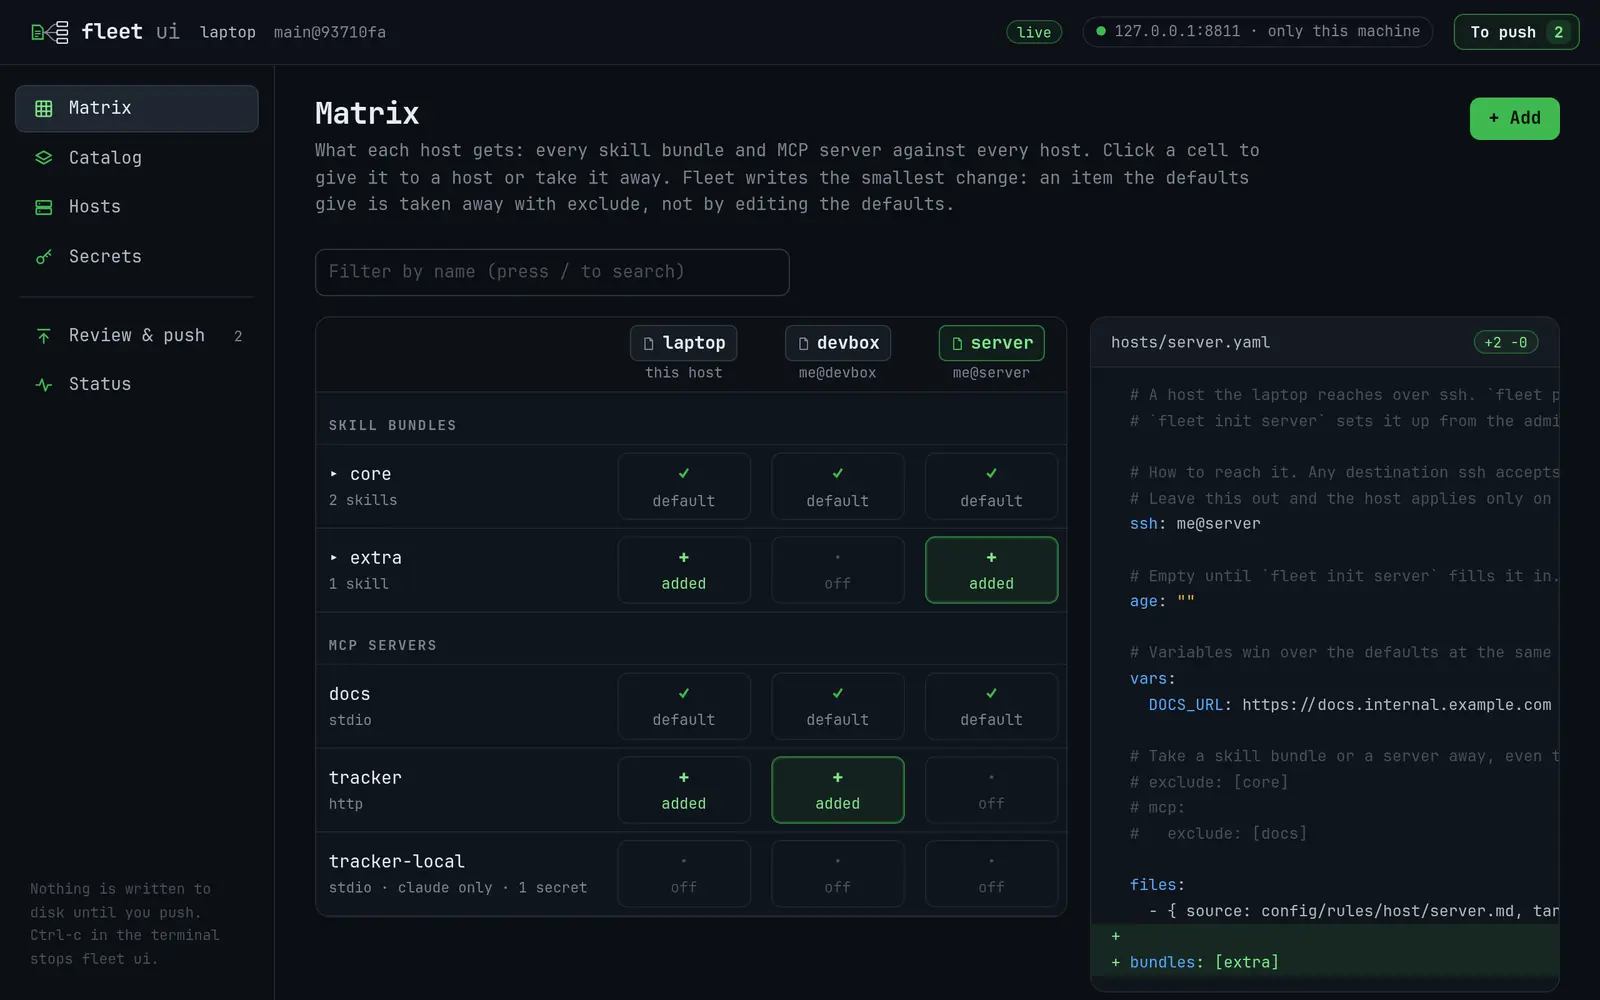
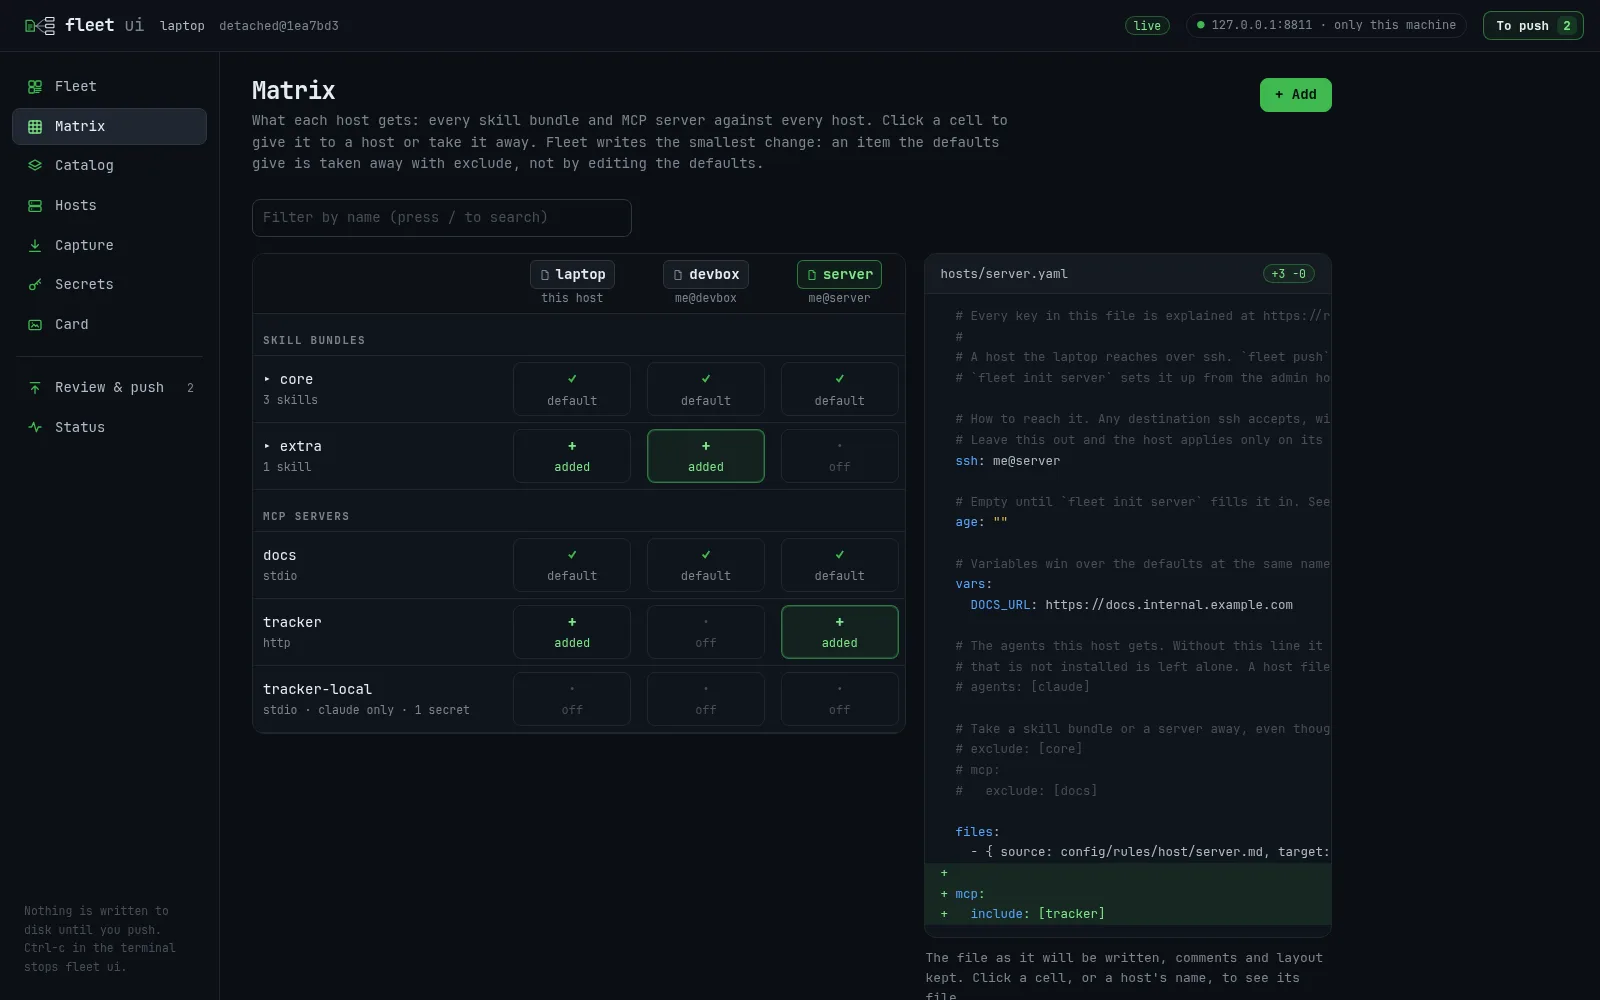
Show Capture and fleet card on the landing page, and retake the fleet ui screenshots from the demo

diff --git a/site/index.html b/site/index.html
@@ -176,25 +176,25 @@
       <div class="section-head">
         <p class="kicker">fleet ui</p>
         <h2>Or click it, in your browser.</h2>
-        <p><code>fleet ui</code> opens a page for your whole fleet. Every click is an edit to the same YAML files, with your comments kept, and you see the diff before anything is written. Nothing changes on a machine until you push.</p>
+        <p><code>fleet ui</code> opens a page for your whole fleet. Every click is an edit to the same YAML files, with your comments kept, and you see the diff before anything is written. Nothing changes on a machine until you push. <a href="docs/ui/">The page</a> covers each screen.</p>
       </div>
 
       <div class="window">
         <div class="window-bar">
           <span class="lights"><i></i><i></i><i></i></span>
           <div class="tabs ui-tabs" role="tablist">
-            <button role="tab" data-shot="matrix" aria-selected="true">Matrix</button>
-            <button role="tab" data-shot="edit" aria-selected="false">Edit</button>
+            <button role="tab" data-shot="fleet" aria-selected="true">Fleet</button>
+            <button role="tab" data-shot="matrix" aria-selected="false">Matrix</button>
           </div>
           <span class="window-title">127.0.0.1 · fleet ui</span>
         </div>
-        <img class="ui-shot" data-shot="matrix" src="ui-matrix.webp" width="1600" height="1000" loading="lazy" alt="The Matrix in fleet ui: skill bundles and MCP servers as rows, the hosts laptop, devbox and server as columns. Two cells are changed and waiting on To push, and the pane on the right shows the YAML diff of hosts/server.yaml.">
-        <img class="ui-shot" data-shot="edit" src="ui-edit.webp" width="1600" height="1000" loading="lazy" hidden alt="The Edit dialog for the MCP server docs. The command's version is changed from 1.0.0 to 1.4.0, and the pane on the right shows that one line changed in catalog/mcp.yaml.">
+        <img class="ui-shot" data-shot="fleet" src="ui-fleet.webp" width="1600" height="1000" loading="lazy" alt="The Fleet screen of fleet ui: a card for each host. Laptop and devbox are ok, server has 1 conflict with a Show the fix button. Below, the startup context of each host and agent as bars on one scale.">
+        <img class="ui-shot" data-shot="matrix" src="ui-matrix.webp" width="1600" height="1000" loading="lazy" hidden alt="The Matrix in fleet ui: skill bundles and MCP servers as rows, the hosts laptop, devbox and server as columns. Two cells are changed and waiting on To push, and the pane on the right shows the YAML diff of hosts/server.yaml.">
       </div>
-      <p class="caption" id="ui-caption">Click a cell to give a host a bundle or a server, or take it away. The pane shows the change to its host file.</p>
+      <p class="caption" id="ui-caption">Every host with its status, its first conflict and its startup context. The page asks each host when it opens and shows what it last saw until they answer.</p>
 
       <ul class="feat-strip ui-strip">
-        <li><span class="feat-ic">▦</span><b>See every host</b>Every bundle and server against every host, with a search that finds a skill inside its bundle.</li>
+        <li><span class="feat-ic">▦</span><b>See every host</b>Each host's status and startup context, and every bundle and server against every host, with a search that finds a skill inside its bundle.</li>
         <li><span class="feat-ic">✎</span><b>Add, edit, remove</b>MCP servers, skill sources, bundles and hosts. Only the lines you change are written.</li>
         <li><span class="feat-ic">↑</span><b>Review &amp; push</b>Checks every host still loads, commits, and runs the real <code>fleet push</code> with live progress.</li>
         <li><span class="feat-ic">⚿</span><b>Only you</b>Listens on <code>127.0.0.1</code>, needs the token in the URL it prints, stops when no page is open.</li>
@@ -206,7 +206,7 @@
       <div class="section-head">
         <p class="kicker">What it keeps in line</p>
         <h2>Everything your agents need. Nothing they shouldn't.</h2>
-        <p>How it works shows what fleet manages. These are the parts that keep it safe to run on every machine.</p>
+        <p>How it works shows what fleet manages. These parts keep it safe to run on every machine and get a machine's setup into your config.</p>
       </div>
       <div class="grid">
         <article class="feat wide accent">
@@ -233,6 +233,18 @@
             <p>Before your first prompt, each agent has already loaded your instructions, the descriptions of your skills and the tool definitions of your MCP servers. <code>fleet context</code> draws that as bars, in estimated tokens, with every host on one scale, so you see which machine and which server weighs the most. It only reads files and starts no server.</p>
           </div>
           <pre class="block term" id="context-bars" tabindex="0" role="group" aria-label="Startup context of each host, as bars"></pre>
+        </article>
+        <article class="feat wide">
+          <div>
+            <div class="feat-ic">⇣</div>
+            <h3>Capture</h3>
+            <p>Set something up on one machine first, with <code>claude mcp add</code> or a skill folder. Then <code>fleet capture</code> turns the servers and skills that machine has and your config does not into config. It asks about each one, writes the catalog and the host files, and commits. A token in a server's env or headers moves into sops on the way, and no value is ever printed. It reads only the machine it runs on. <a href="docs/capture/">Capture</a> has the details.</p>
+          </div>
+          <pre class="mini"><span class="g">$</span> fleet capture
+<span class="w">[h]ost / [a]ll hosts / [i]gnore / [s]kip / [q]uit:</span> h
+<span class="w">ISSUES_API_KEY becomes the secret ISSUES_API_KEY.</span>
+<span class="w">Press enter, or type another name:</span>
+<span class="w">Push now? [y/N]</span></pre>
         </article>
         <ul class="feat-strip">
           <li><span class="feat-ic">⚿</span><b>Encrypted secrets</b>sops and age. Each host decrypts only its own.</li>
@@ -303,6 +315,30 @@
       </div>
     </section>
 
+    <!-- fleet card: images rendered from fleet demo's made-up hosts (never a real fleet). -->
+    <section class="share" id="card">
+      <div class="section-head">
+        <p class="kicker">fleet card</p>
+        <h2>Show your fleet.</h2>
+        <p><code>fleet card</code> writes <code>fleet-card.svg</code>, an image of your fleet to share in a post, a README or a GitHub discussion: the counts of machines, agents, skills and MCP servers, each machine with its agents and OS, and a year of changes. Hosts are called <code>host 1</code>, <code>host 2</code> unless you add <code>--names</code>. No server, skill, skill source or secret name is ever on it.</p>
+      </div>
+      <div class="share-cards">
+        <figure>
+          <img src="card-machines.webp" width="1200" height="630" loading="lazy" alt="A fleet card in the machines style: 3 machines, 2 agents, 4 skills and 2 MCP servers, a row for each of devbox, laptop and server with claude and opencode on linux, an activity grid for 12 months, and 48 changes in the last year.">
+          <figcaption><code>fleet card</code>, the default style: <code>machines</code></figcaption>
+        </figure>
+        <figure>
+          <img src="card-map.webp" width="1200" height="630" loading="lazy" alt="A fleet card in the map style: the config repo in the middle, with devbox, laptop and server around it, each ok with claude and opencode, and 4 skills, 2 MCP servers, 48 changes and 2 pushes below.">
+          <figcaption><code>fleet card --style map</code></figcaption>
+        </figure>
+      </div>
+      <div class="share-badge">
+        <img src="fleet-badge.svg" width="222" height="20" loading="lazy" alt="A badge: fleet, 3 machines, 2 agents">
+        <p><code>fleet card --badge</code> writes a small <code>fleet-badge.svg</code> for your README. <code>fleet ui</code> has a Card screen with the same styles, Save PNG, Copy image and a button that opens a new discussion with a short text filled in. The cards above are made from <code>fleet demo</code>'s made-up hosts.</p>
+        <a class="btn" href="https://github.com/RolfKoenders/fleet/discussions/categories/show-and-tell" data-umami-event="fleet-showandtell-click">Show and tell on GitHub <span aria-hidden="true">→</span></a>
+      </div>
+    </section>
+
     <!-- What changed lately: generated from CHANGELOG.md by 'npm run site:changelog'. -->
     <section class="whats-new" id="whats-new">
       <div class="section-head">
@@ -348,7 +384,7 @@
           <div class="step-n">1</div>
           <div class="step-body">
             <h3>Install fleet</h3>
-            <p>No runtime dependencies beyond Node, git and sops.</p>
+            <p>No runtime dependencies beyond Node, git and sops. <a href="docs/getting-started/">Getting started</a> has every step.</p>
             <div class="cmd small" data-copy="curl -fsSL https://raw.githubusercontent.com/RolfKoenders/fleet/main/install.sh | sh"><span class="prompt">$</span><code>curl -fsSL …/install.sh | sh</code><button type="button" class="copy" data-umami-event="fleet-install-copy" data-umami-event-where="start">copy</button></div>
           </div>
         </li>
@@ -356,7 +392,7 @@
           <div class="step-n">2</div>
           <div class="step-body">
             <h3>Create your config</h3>
-            <p>A commented example repo. Edit it yourself, or ask your agent to run <code>fleet agent</code> and follow the onboarding recipe.</p>
+            <p>A commented example repo. Edit it yourself, or ask your agent to run <code>fleet agent</code> and follow the onboarding recipe. Every key is in the <a href="docs/reference-hosts/">config reference</a>.</p>
             <div class="cmd small" data-copy="fleet new ~/fleet-config"><span class="prompt">$</span><code>fleet new ~/fleet-config</code><button type="button" class="copy">copy</button></div>
           </div>
         </li>
@@ -364,7 +400,7 @@
           <div class="step-n">3</div>
           <div class="step-body">
             <h3>Set up this machine</h3>
-            <p>Init prints an age key once. Save it in your password manager.</p>
+            <p>Init prints an age key once. Save it in your password manager. <a href="docs/setting-up-machines/">Setting up machines</a> says what each machine needs.</p>
             <div class="cmd small" data-copy="fleet init laptop"><span class="prompt">$</span><code>fleet init laptop</code><button type="button" class="copy">copy</button></div>
           </div>
         </li>
@@ -386,8 +422,8 @@
         <div class="cmdrow"><code>fleet context</code><span>What each agent loads at startup, as bars</span></div>
         <div class="cmdrow"><code>fleet skills update --review</code><span>Read what a skill source changed before its pin moves</span></div>
         <div class="cmdrow"><code>fleet doctor</code><span>Start each MCP server and check it answers</span></div>
-        <div class="cmdrow"><code>fleet secrets</code><span>Edit, set or rekey encrypted secrets</span></div>
-        <div class="cmdrow"><code>fleet adopt</code><span>Take ownership of what already matches</span></div>
+        <div class="cmdrow"><code>fleet capture</code><span>Turn what a machine has into config</span></div>
+        <div class="cmdrow"><code>fleet secrets</code><span>Edit, set, rekey or rotate encrypted secrets</span></div>
         <div class="cmdrow"><code>fleet agent</code><span>What an agent needs to know</span></div>
       </div>
     </section>

diff --git a/site/style.css b/site/style.css
@@ -485,3 +485,13 @@ footer a:hover { color: var(--text); }
   .doc-side.open { display: block; position: static; margin-bottom: 26px; }
   .doc-home ul { grid-template-columns: 1fr; }
 }
+
+/* fleet card */
+.share-cards { display: grid; grid-template-columns: repeat(2, minmax(0, 1fr)); gap: 24px; }
+.share-cards figure { margin: 0; }
+.share-cards img { display: block; width: 100%; height: auto; border-radius: var(--radius); border: 1px solid var(--border); box-shadow: 0 30px 80px -30px rgba(0,0,0,.9); }
+.share-cards figcaption { margin-top: 12px; color: var(--muted); font-size: 14px; text-align: center; }
+.share-badge { max-width: 700px; margin: 40px auto 0; text-align: center; }
+.share-badge img { display: inline-block; margin-bottom: 16px; }
+.share-badge p { margin: 0 0 22px; color: var(--muted); font-size: 15px; }
+@media (max-width: 900px) { .share-cards { grid-template-columns: minmax(0, 1fr); } }

diff --git a/site/main.js b/site/main.js
@@ -313,8 +313,8 @@
 // fleet ui: the tabs switch between the screenshots and their captions.
 (() => {
   const CAPTIONS = {
+    fleet: "Every host with its status, its first conflict and its startup context. The page asks each host when it opens and shows what it last saw until they answer.",
     matrix: "Click a cell to give a host a bundle or a server, or take it away. The pane shows the change to its host file.",
-    edit: "Edit opens the same dialog as Add, filled in. Only the line you change is written; the comments around it stay.",
   };
   const caption = document.getElementById("ui-caption");
   const tabs = document.querySelectorAll(".ui-tabs button");

diff --git a/README.md b/README.md
@@ -46,6 +46,16 @@ Then add another machine from this one:
 fleet init server
 ```
 
+## Share your fleet
+
+`fleet card` writes an image of your fleet to post or put in a README: the counts of machines, agents, skills and MCP servers, each machine with its agents and OS, and a year of changes. Hosts are `host 1`, `host 2` unless you add `--names`, and no server, skill or secret name is ever on it. `fleet card --badge` writes a small badge for your README. Post yours in [Show and tell](https://github.com/RolfKoenders/fleet/discussions/categories/show-and-tell).
+
+<p align="center">
+  <img alt="A fleet card: 3 machines, 2 agents, 4 skills and 2 MCP servers, a row for each of devbox, laptop and server, and an activity grid for the last 12 months. It is made from fleet demo's made-up hosts." src="site/card-machines.webp" width="600">
+</p>
+
+[![fleet: 3 machines, 2 agents](site/fleet-badge.svg)](https://github.com/RolfKoenders/fleet/discussions/categories/show-and-tell)
+
 ## Supported agents
 
 - Claude Code
